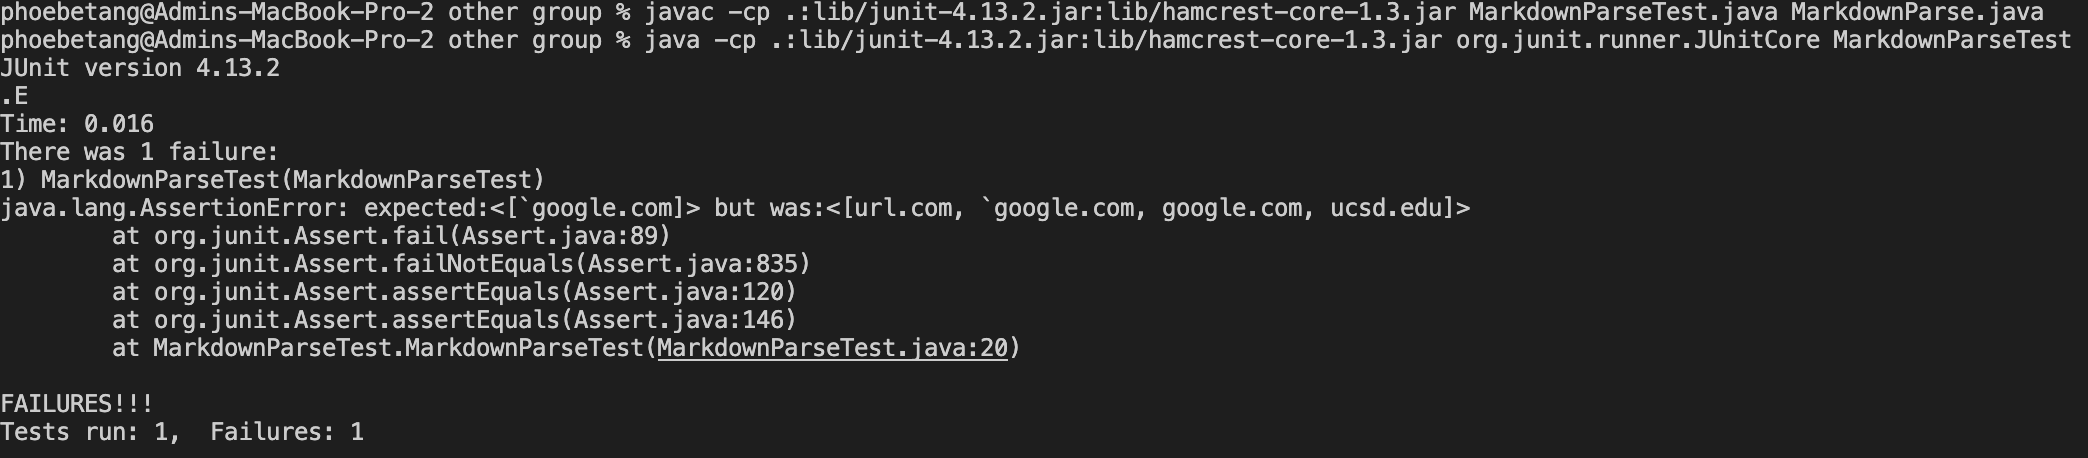
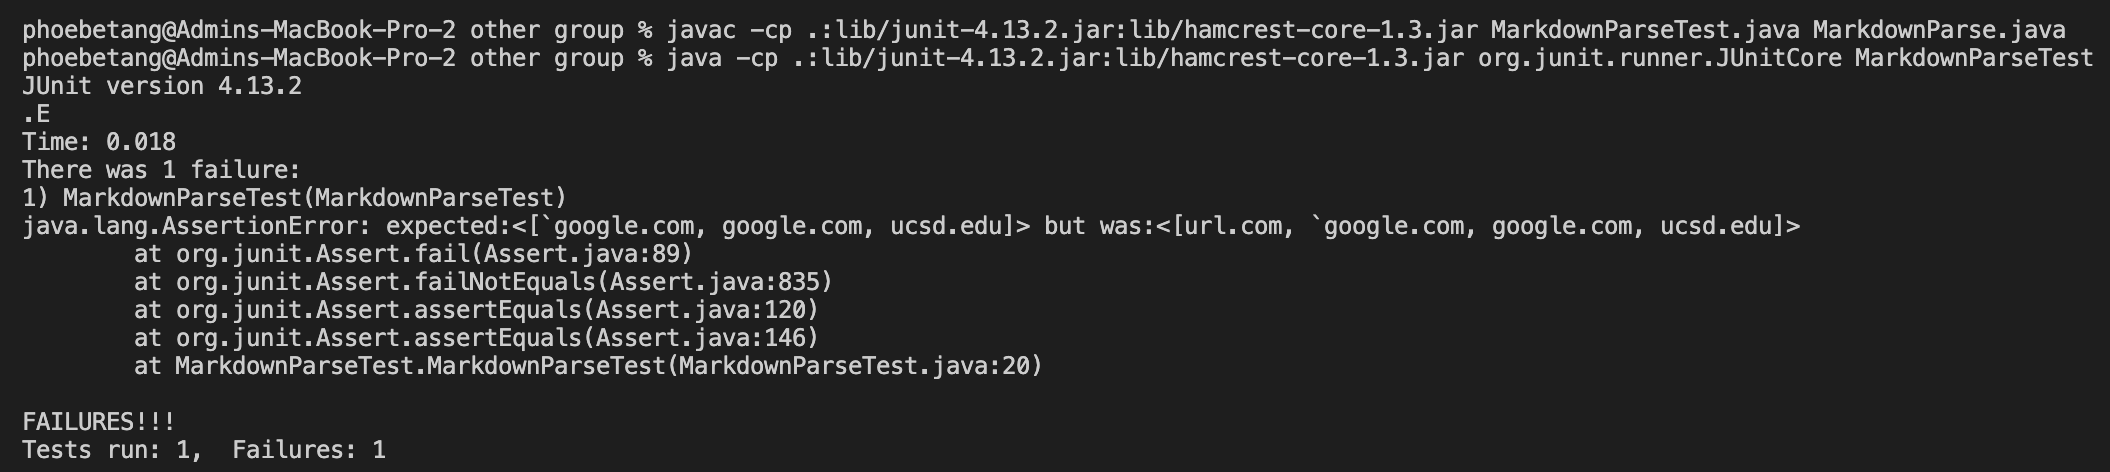
fixed error in snippet 1 and set up frame work for snippet 2

Changed region(s): [[0.0, 0.0, 0.9962, 0.7948], [0.0, 0.8559, 0.1868, 0.9782]]

diff --git a/lab4.md b/lab4.md
@@ -21,16 +21,20 @@ We will be running 3 tests on both [my solution](https://github.com/adironene/ma
 #### The test file
 ```
 `[a link`](url.com)
+
 [another link](`google.com)`
+
 [`cod[e`](google.com)
+
 [`code]`](ucsd.edu)
+
 ```
 
 #### The correct output
 
-Only the second line would be considered a link so the correct output should be
+The first line would be embeded so the 2nd, 3rd, and 4th link should count.
 
-``` ["`google.com"]```
+``` ["`google.com", "google.com", "ucsd.edu"]```
 
 #### The test implementation
 
@@ -54,7 +58,7 @@ public class MarkdownParseTest {
         String content = Files.readString(fileName);
         MarkdownParse m = new MarkdownParse();
         ArrayList<String> links = m.getLinks(content);
-        ArrayList<String> correct_links = new ArrayList<>(Arrays.asList("`google.com"));
+        ArrayList<String> correct_links = new ArrayList<>(Arrays.asList("`google.com", "google.com", "ucsd.edu"));
         assertEquals(correct_links, links);
     }
 }
@@ -77,7 +81,7 @@ public class MarkdownParseTest {
 
     @Test
     public void MarkdownParseTest() throws IOException{
-        ArrayList<String> expected = new ArrayList<>(List.of("`google.com"));
+        ArrayList<String> expected = new ArrayList<>(List.of("`google.com", "google.com", "ucsd.edu"));
         ArrayList<String> resultArray = MarkdownParse.getLinks(Files.readString(Path.of("lab4-snippet1.md")));
         assertEquals(expected, resultArray);
     }
@@ -101,9 +105,129 @@ The other group's code did not pass the JUnit Test
 > Do you think there is a small (<10 lines) code change that will make your program work for snippet 1 and all related cases that use inline code with backticks? If yes, describe the code change. If not, describe why it would be a more involved change.
 
 
-A: Yes, a small code change would make my program work for snippet 1. I believe that both teams were unaware of the backstick being a problem. In order to fix the issue, we would have an if() statement to check if there is a "(" ")" "[" or "]" in between multiple backsticks; if so, delete the link from the list.
+A: Yes, a small code change would make my program work for snippet 1. I believe that both teams were unaware of the backstick being a problem. In order to fix the issue, we would have an if() statement to check if there is a "(" ")" "[" or "]" in between multiple backsticks, and there isn't another one of the character; if so, delete the link from the list.
 
-## Test Case 2
 <br/><br/>
 
+## Test Case 2
+
+#### The test file
+```
+[a [nested link](a.com)](b.com)
+
+[a nested parenthesized url](a.com(()))
+
+[some escaped \[ brackets \]](example.com)
+
+```
+
+#### The correct output
+
+
+``` []```
+
+#### The test implementation
+
+> For my test file, this is how I added the tester method.
+
+```java
+
+```
+
+<!-- The lab4-snippet1.md file had the snippet copied over. -->
+
+> For the other group's file, this is how I added the tester method.
+
+```java
+
+```
+
+<!-- The lab4-snippet1.md file had the snippet copied over. -->
+
+#### The outputs of the test
+
+<!-- My code did not pass the JUnit Test -->
+
+<!-- ![image](images/Lab4/snippet1_my.png) -->
+
+<!-- The other group's code did not pass the JUnit Test -->
+
+<!-- ![image](images/Lab4/snippet1_other.png) -->
+
+#### An explanation of the code
+
+> Do you think there is a small (<10 lines) code change that will make your program work for snippet 2 and all related cases that nest parentheses, brackets, and escaped brackets? If yes, describe the code change. If not, describe why it would be a more involved change.
+
+
+A: 
+
 ## Test Case 3
+
+#### The test file
+```
+[this title text is really long and takes up more than 
+one line
+
+and has some line breaks](
+    https://www.twitter.com
+)
+
+[this title text is really long and takes up more than 
+one line](
+https://sites.google.com/eng.ucsd.edu/cse-15l-spring-2022/schedule
+)
+
+
+[this link doesn't have a closing parenthesis](github.com
+
+And there's still some more text after that.
+
+[this link doesn't have a closing parenthesis for a while](https://cse.ucsd.edu/
+
+
+
+)
+
+And then there's more text
+
+```
+
+#### The correct output
+
+
+``` []```
+
+#### The test implementation
+
+> For my test file, this is how I added the tester method.
+
+```java
+
+```
+
+<!-- The lab4-snippet1.md file had the snippet copied over. -->
+
+> For the other group's file, this is how I added the tester method.
+
+```java
+
+```
+
+<!-- The lab4-snippet1.md file had the snippet copied over. -->
+
+#### The outputs of the test
+
+<!-- My code did not pass the JUnit Test -->
+
+<!-- ![image](images/Lab4/snippet1_my.png) -->
+
+<!-- The other group's code did not pass the JUnit Test -->
+
+<!-- ![image](images/Lab4/snippet1_other.png) -->
+
+#### An explanation of the code
+
+> Do you think there is a small (<10 lines) code change that will make your program work for snippet 3 and all related cases that have newlines in brackets and parentheses? If yes, describe the code change. If not, describe why it would be a more involved change.
+
+
+A: 
